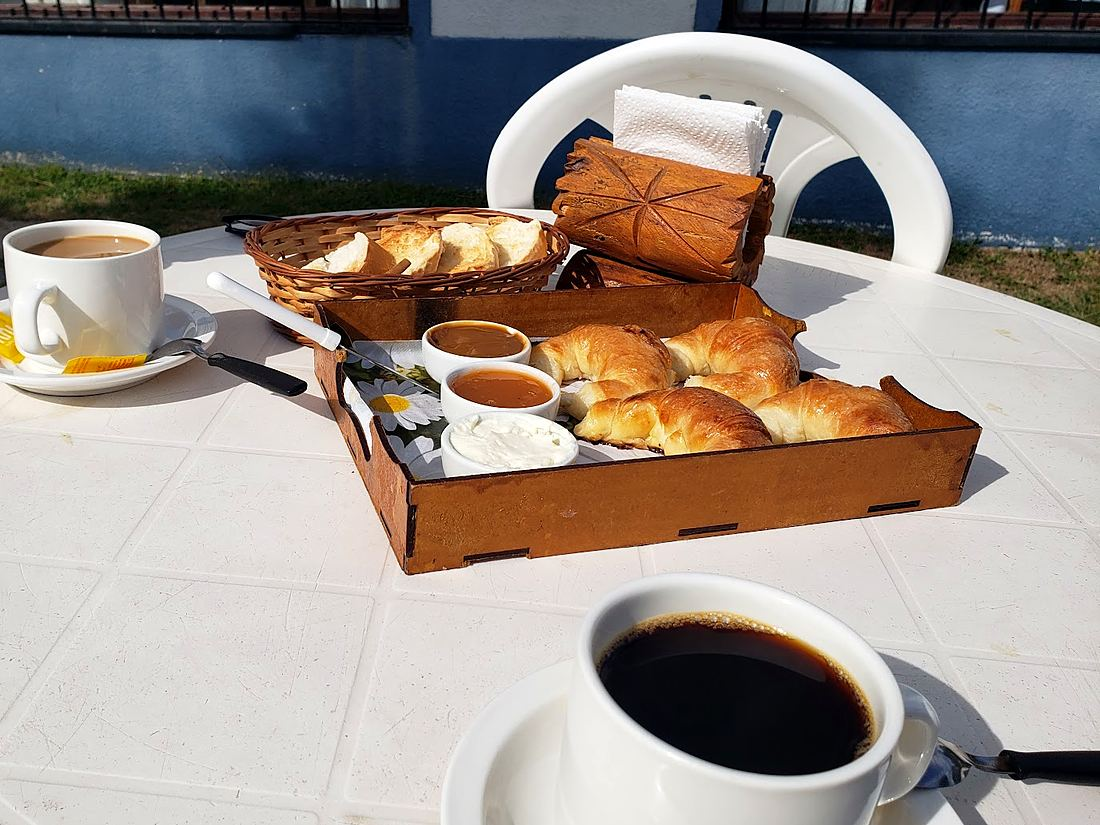
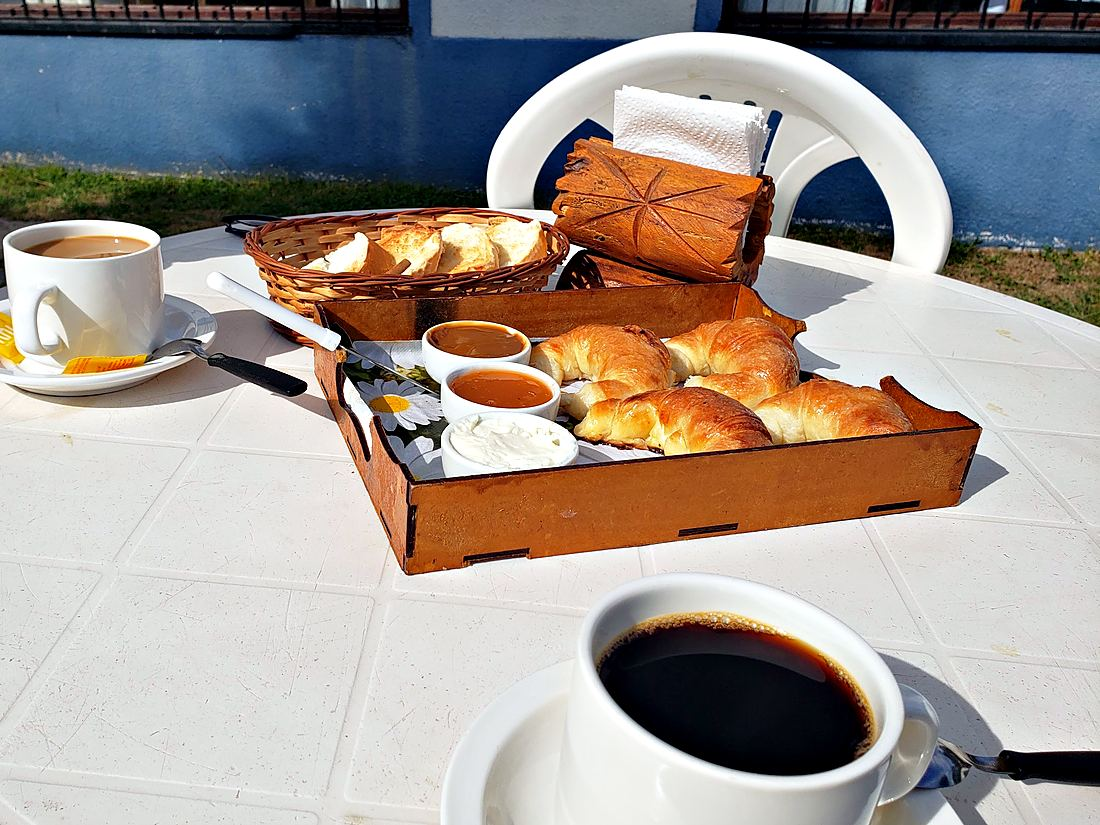
Portada animada, sección "Desde 2004" y fotos retocadas
- Portada 1 con acercamiento lento en loop y paralaje al bajar
  (se queda quieta si el sistema pide menos movimiento).
- Nueva sección "Desde 2004" con la historia de la hostería.
- Las 19 fotos de la web pasan a su versión retocada: luz, color y
  nitidez, sin agregar ni quitar nada.
- Textos de reserva sin "sin intermediarios".
- Las carpetas de trabajo locales quedan fuera del repo.

diff --git a/index.html b/index.html
@@ -4,7 +4,7 @@
 <meta charset="utf-8">
 <meta name="viewport" content="width=device-width, initial-scale=1, viewport-fit=cover">
 <title>La Lomita · Hostería en Villa Gesell con desayuno incluido</title>
-<meta name="description" content="Hostería familiar en Villa Gesell para descansar cerca de la playa y del centro. Desayuno incluido, jardín con parrilla y cochera. Reservá directo por WhatsApp, sin intermediarios.">
+<meta name="description" content="Hostería familiar en Villa Gesell para descansar cerca de la playa y del centro. Desayuno incluido, jardín con parrilla y cochera. Reservá directo por WhatsApp.">
 <meta name="theme-color" content="#0B1A2E">
 <meta property="og:type" content="website">
 <meta property="og:locale" content="es_AR">
@@ -99,7 +99,9 @@ address{font-style:normal}
 
 /* Portada: foto a pantalla completa */
 .portada{position:relative;isolation:isolate;display:flex;align-items:flex-end;min-height:max(640px,100svh);overflow:hidden;color:#fff;background:var(--noche)}
-.portada-foto{position:absolute;inset:0;z-index:-2;width:100%;height:100%;object-fit:cover;object-position:50% 50%}
+/* La foto va en una capa propia: la capa hace el paralaje y la foto el acercamiento lento */
+.portada-capa{position:absolute;inset:0;z-index:-2;overflow:hidden;will-change:transform}
+.portada-foto{position:absolute;inset:0;width:100%;height:100%;object-fit:cover;object-position:50% 50%;transform-origin:50% 62%}
 .portada::before{content:"";position:absolute;inset:0;z-index:-1;background:
   linear-gradient(180deg,rgba(8,18,34,.6) 0%,rgba(8,18,34,0) 22%),
   linear-gradient(0deg,rgba(8,18,34,.86) 0%,rgba(8,18,34,.35) 42%,rgba(8,18,34,0) 70%),
@@ -128,14 +130,22 @@ address{font-style:normal}
 .puntaje a{color:#fff}
 
 @media (prefers-reduced-motion:no-preference){
-  .portada-foto{animation:asentar 2.4s var(--facil) both}
+  .portada-foto{animation:entrar 1.6s var(--facil) both,respirar 24s ease-in-out 1.6s infinite alternate}
   .portada-contenido > *{animation:subir .9s var(--facil) both}
   .portada-contenido > :nth-child(2){animation-delay:.1s}
   .portada-contenido > :nth-child(3){animation-delay:.2s}
   .portada-contenido > :nth-child(4){animation-delay:.3s}
   .portada-contenido > :nth-child(5){animation-delay:.4s}
 }
-@keyframes asentar{from{transform:scale(1.1)}to{transform:scale(1)}}
+@keyframes entrar{from{opacity:0;transform:scale(1.04)}to{opacity:1;transform:scale(1)}}
+@keyframes respirar{from{transform:scale(1)}to{transform:scale(1.1)}}
+
+/* Historia */
+.nosotros{display:grid;gap:clamp(32px,5vw,72px);align-items:center}
+@media (min-width:900px){.nosotros{grid-template-columns:minmax(0,.8fr) minmax(0,1.2fr)}}
+.nosotros-foto{width:100%;max-width:440px;aspect-ratio:4/5;object-fit:cover;border-radius:var(--radio)}
+.sobretitulo{display:inline-block;margin-bottom:.9rem;padding:.3em .9em;border-radius:999px;background:var(--terracota-suave);color:var(--terracota);font-weight:700;font-size:.92rem;letter-spacing:.02em}
+.nosotros .bajada{max-width:56ch;font-size:1.18rem;line-height:1.65}
 @keyframes subir{from{opacity:0;transform:translateY(20px)}to{opacity:1;transform:none}}
 
 /* Zócalo: la franja azul de la casa, con lo más buscado */
@@ -294,6 +304,7 @@ address{font-style:normal}
     </a>
     <div class="navegacion">
       <nav class="menu" aria-label="Secciones">
+        <a href="#nosotros">Nosotros</a>
         <a href="#servicios">Servicios</a>
         <a href="#habitaciones">Habitaciones</a>
         <a href="#opiniones">Opiniones</a>
@@ -308,14 +319,16 @@ address{font-style:normal}
 <main id="contenido">
 
   <section class="portada sobre-oscuro" aria-labelledby="titular">
-    <picture>
-      <source media="(max-width: 700px)" srcset="img/portada-movil.jpg" width="1050" height="1400">
-      <img class="portada-foto" src="img/portada.jpg" width="2000" height="1125" fetchpriority="high" alt="La casa de La Lomita, blanca con zócalo azul, y su jardín con pinos.">
-    </picture>
+    <div class="portada-capa">
+      <picture>
+        <source media="(max-width: 700px)" srcset="img/portada-movil.jpg" width="1050" height="1400">
+        <img class="portada-foto" src="img/portada.jpg" width="2000" height="1125" fetchpriority="high" alt="La casa de La Lomita, blanca con zócalo azul, y su jardín con pinos.">
+      </picture>
+    </div>
     <div class="adentro portada-contenido">
       <p class="etiqueta">Temporada 2027 · Reservas abiertas</p>
       <h1 class="titular" id="titular">Desconectá y descansá <span>cerca de la playa y del centro.</span></h1>
-      <p class="entrada">Hostería familiar en una zona tranquila y arbolada de Villa Gesell. Desayuno incluido, jardín con parrilla y cochera. Reservá directo por WhatsApp, sin intermediarios.</p>
+      <p class="entrada">Hostería familiar en una zona tranquila y arbolada de Villa Gesell. Desayuno incluido, jardín con parrilla y cochera. Reservá directo por WhatsApp.</p>
       <p class="puntaje">
         <span class="estrellas" aria-hidden="true">★★★★★</span>
         <a href="https://www.google.com/maps/search/?api=1&query=La%20Lomita%2C%20Av.%206%20421%2C%20Villa%20Gesell" target="_blank" rel="noopener"><strong>4,5 de 5</strong> en Google · 183 opiniones</a>
@@ -341,6 +354,17 @@ address{font-style:normal}
       <li>Wifi</li>
     </ul>
   </div>
+
+  <section class="tramo tramo-arena" id="nosotros" aria-labelledby="t-nosotros">
+    <div class="adentro nosotros">
+      <img class="nosotros-foto revelar" src="img/nosotros.jpg" width="1000" height="1250" loading="lazy" alt="El jardín de La Lomita con mesas, pinos y cielo de verano, junto a la casa blanca.">
+      <div class="revelar">
+        <span class="sobretitulo">Desde 2004</span>
+        <h2 class="subtitulo" id="t-nosotros">Una hostería familiar en Villa Gesell</h2>
+        <p class="bajada">La Lomita es una casa de familia que recibe huéspedes desde 2004. Lo que más destacan quienes vienen es la atención: un trato cercano y buenas recomendaciones para recorrer la ciudad. Queremos que te sientas como en casa, con un desayuno completo, el jardín para descansar y la playa y el centro cerca.</p>
+      </div>
+    </div>
+  </section>
 
   <section class="tramo" id="servicios" aria-labelledby="t-servicios">
     <div class="adentro servicios">
@@ -485,10 +509,9 @@ address{font-style:normal}
     <img class="fondo" src="img/fondo-reservas.jpg" width="1800" height="1012" loading="lazy" alt="">
     <div class="adentro">
       <div class="revelar">
-        <h2 class="subtitulo" id="t-reservar">Reservá directo, sin intermediarios</h2>
+        <h2 class="subtitulo" id="t-reservar">Reservá directo con nosotros</h2>
         <p class="bajada">Elegí las fechas y la cantidad de huéspedes. Te respondemos por WhatsApp con disponibilidad y tarifa.</p>
         <ul class="garantias">
-          <li>Sin intermediarios ni comisiones</li>
           <li>Respuesta personal por WhatsApp</li>
           <li>Consultar no tiene costo</li>
         </ul>
@@ -559,6 +582,20 @@ address{font-style:normal}
 (() => {
   // Número de WhatsApp que recibe las consultas (formato internacional, sin + ni espacios).
   const WHATSAPP = "5491176001445";
+
+  // Paralaje suave de la portada: la foto baja más lento que la página.
+  const capa = document.querySelector(".portada-capa");
+  if (capa && !window.matchMedia("(prefers-reduced-motion: reduce)").matches) {
+    let pendiente = false;
+    const moverCapa = () => {
+      pendiente = false;
+      const y = Math.min(window.scrollY, window.innerHeight * 1.2);
+      capa.style.transform = `translate3d(0, ${(y * 0.22).toFixed(1)}px, 0)`;
+    };
+    window.addEventListener("scroll", () => {
+      if (!pendiente) { pendiente = true; requestAnimationFrame(moverCapa); }
+    }, { passive: true });
+  }
 
   // Encabezado: transparente sobre la portada, sólido al bajar.
   const cabecera = document.getElementById("cabecera");
